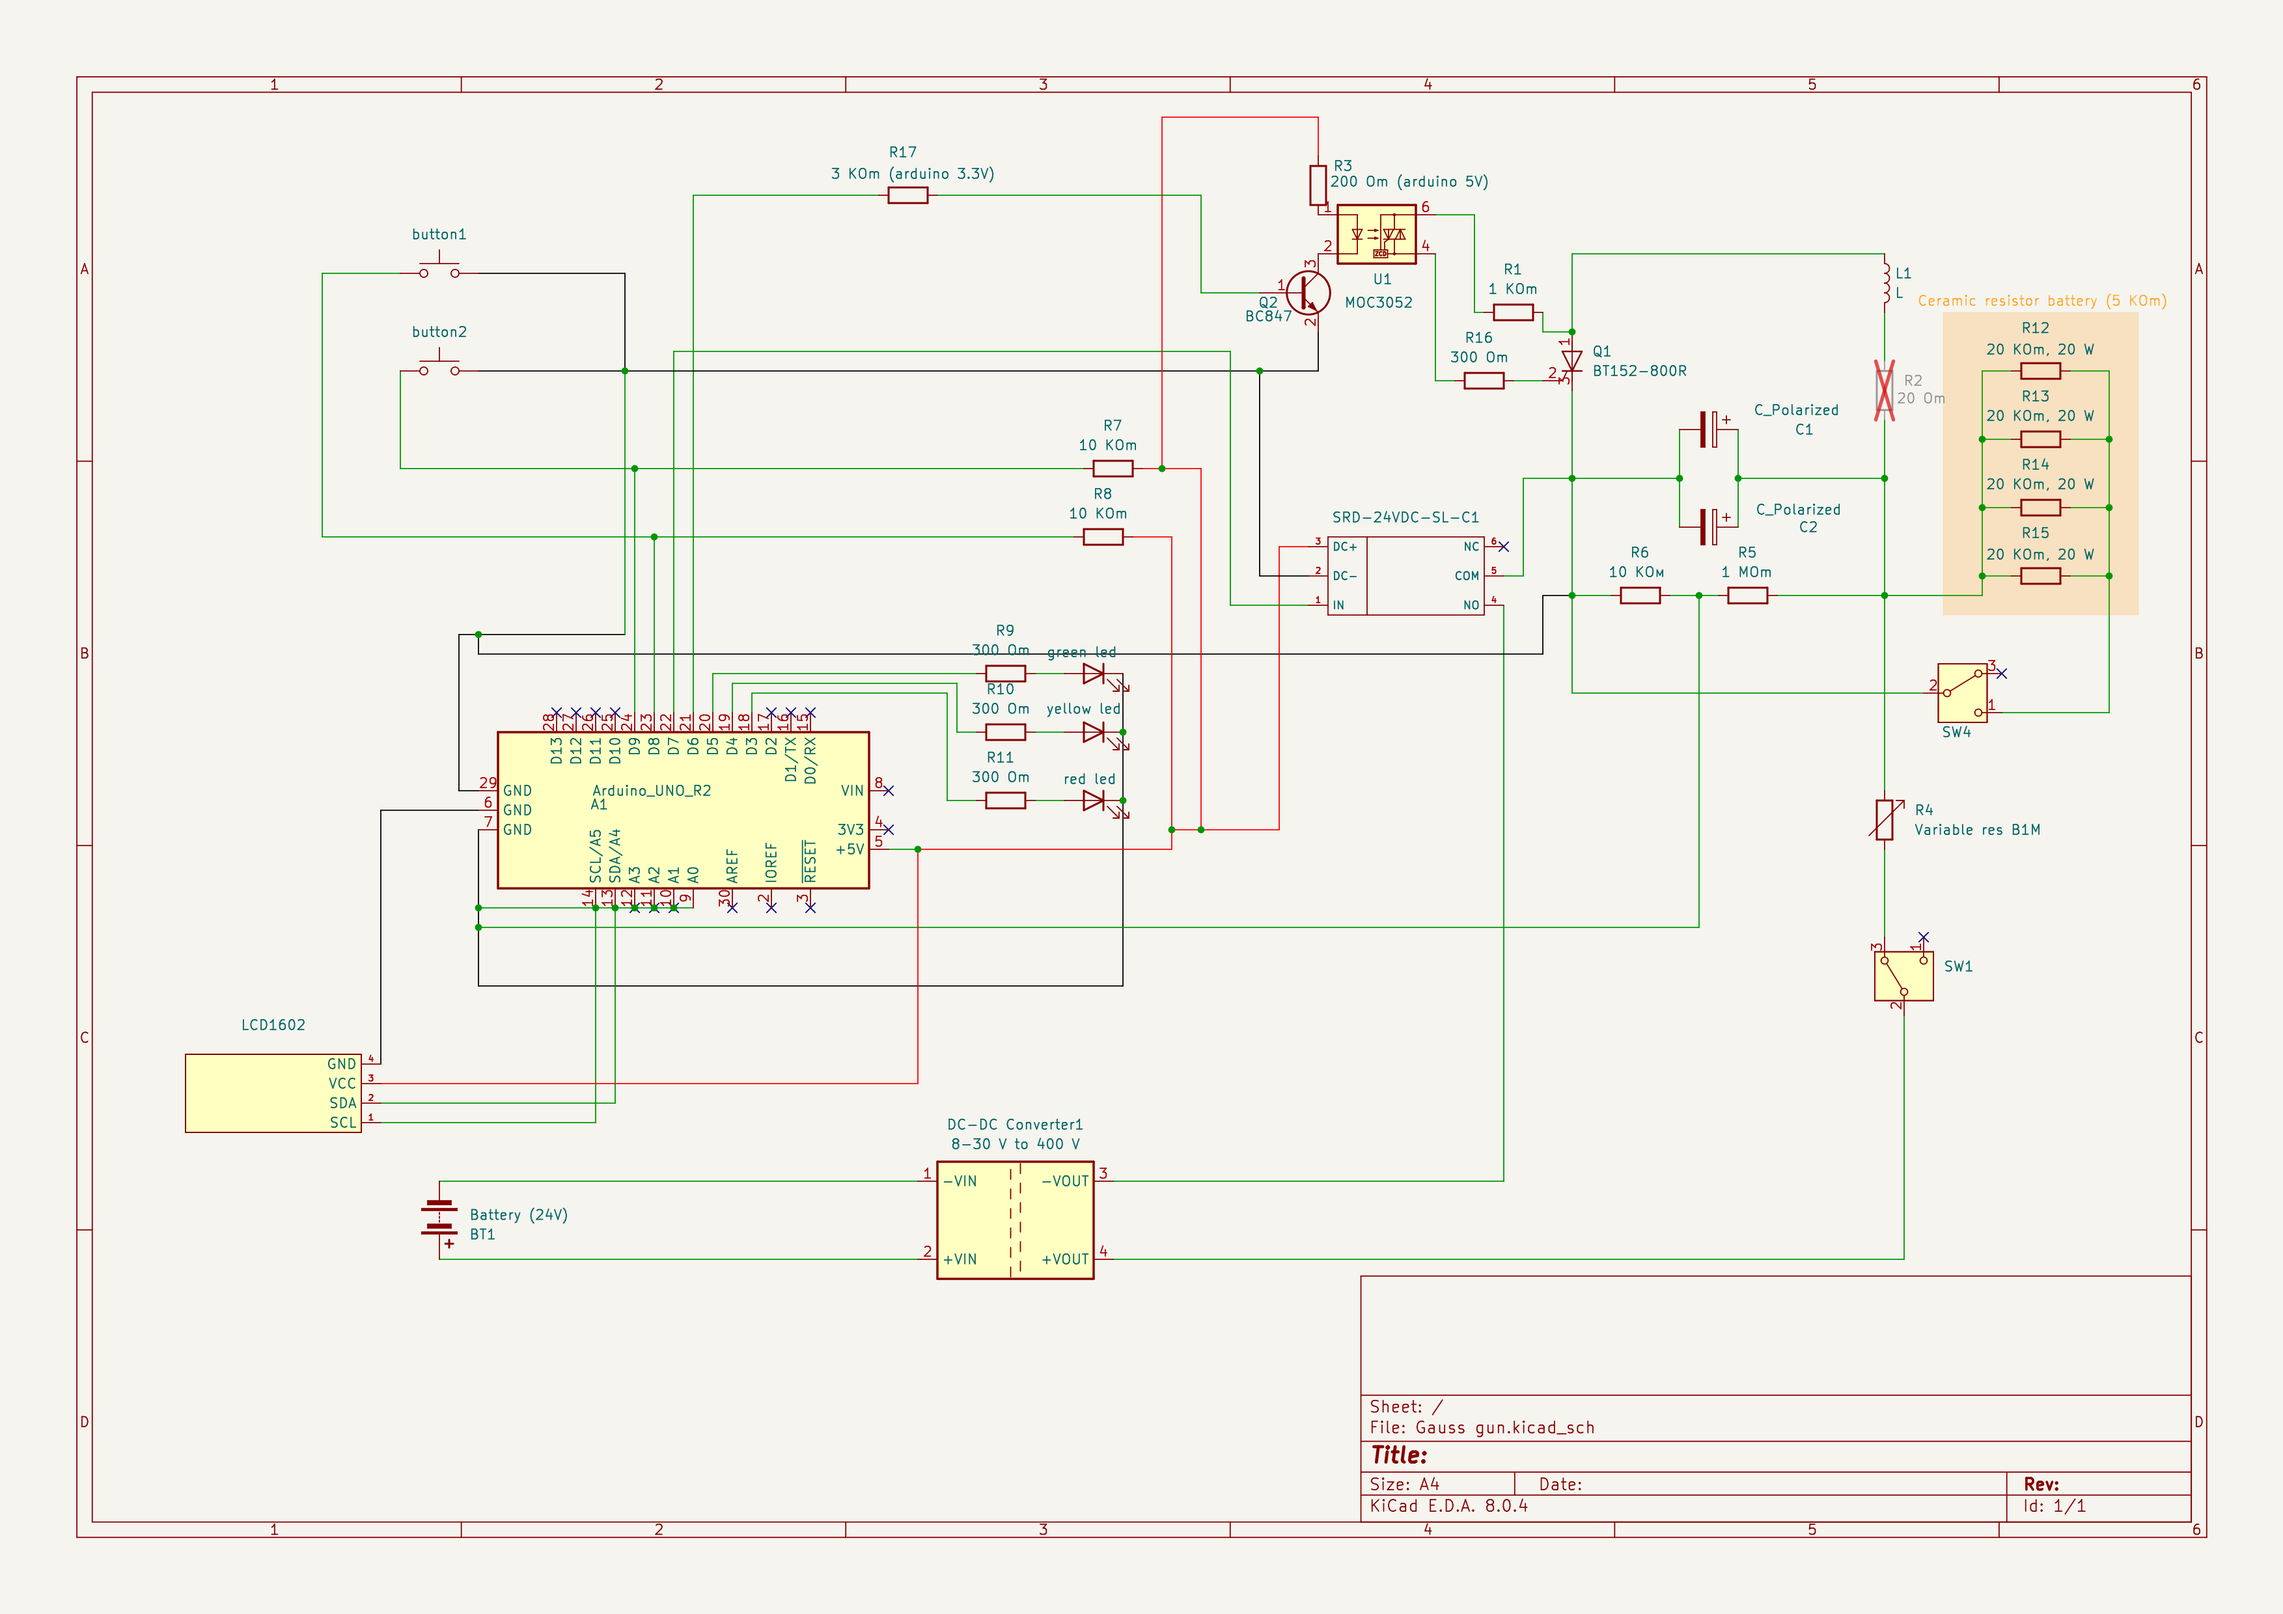
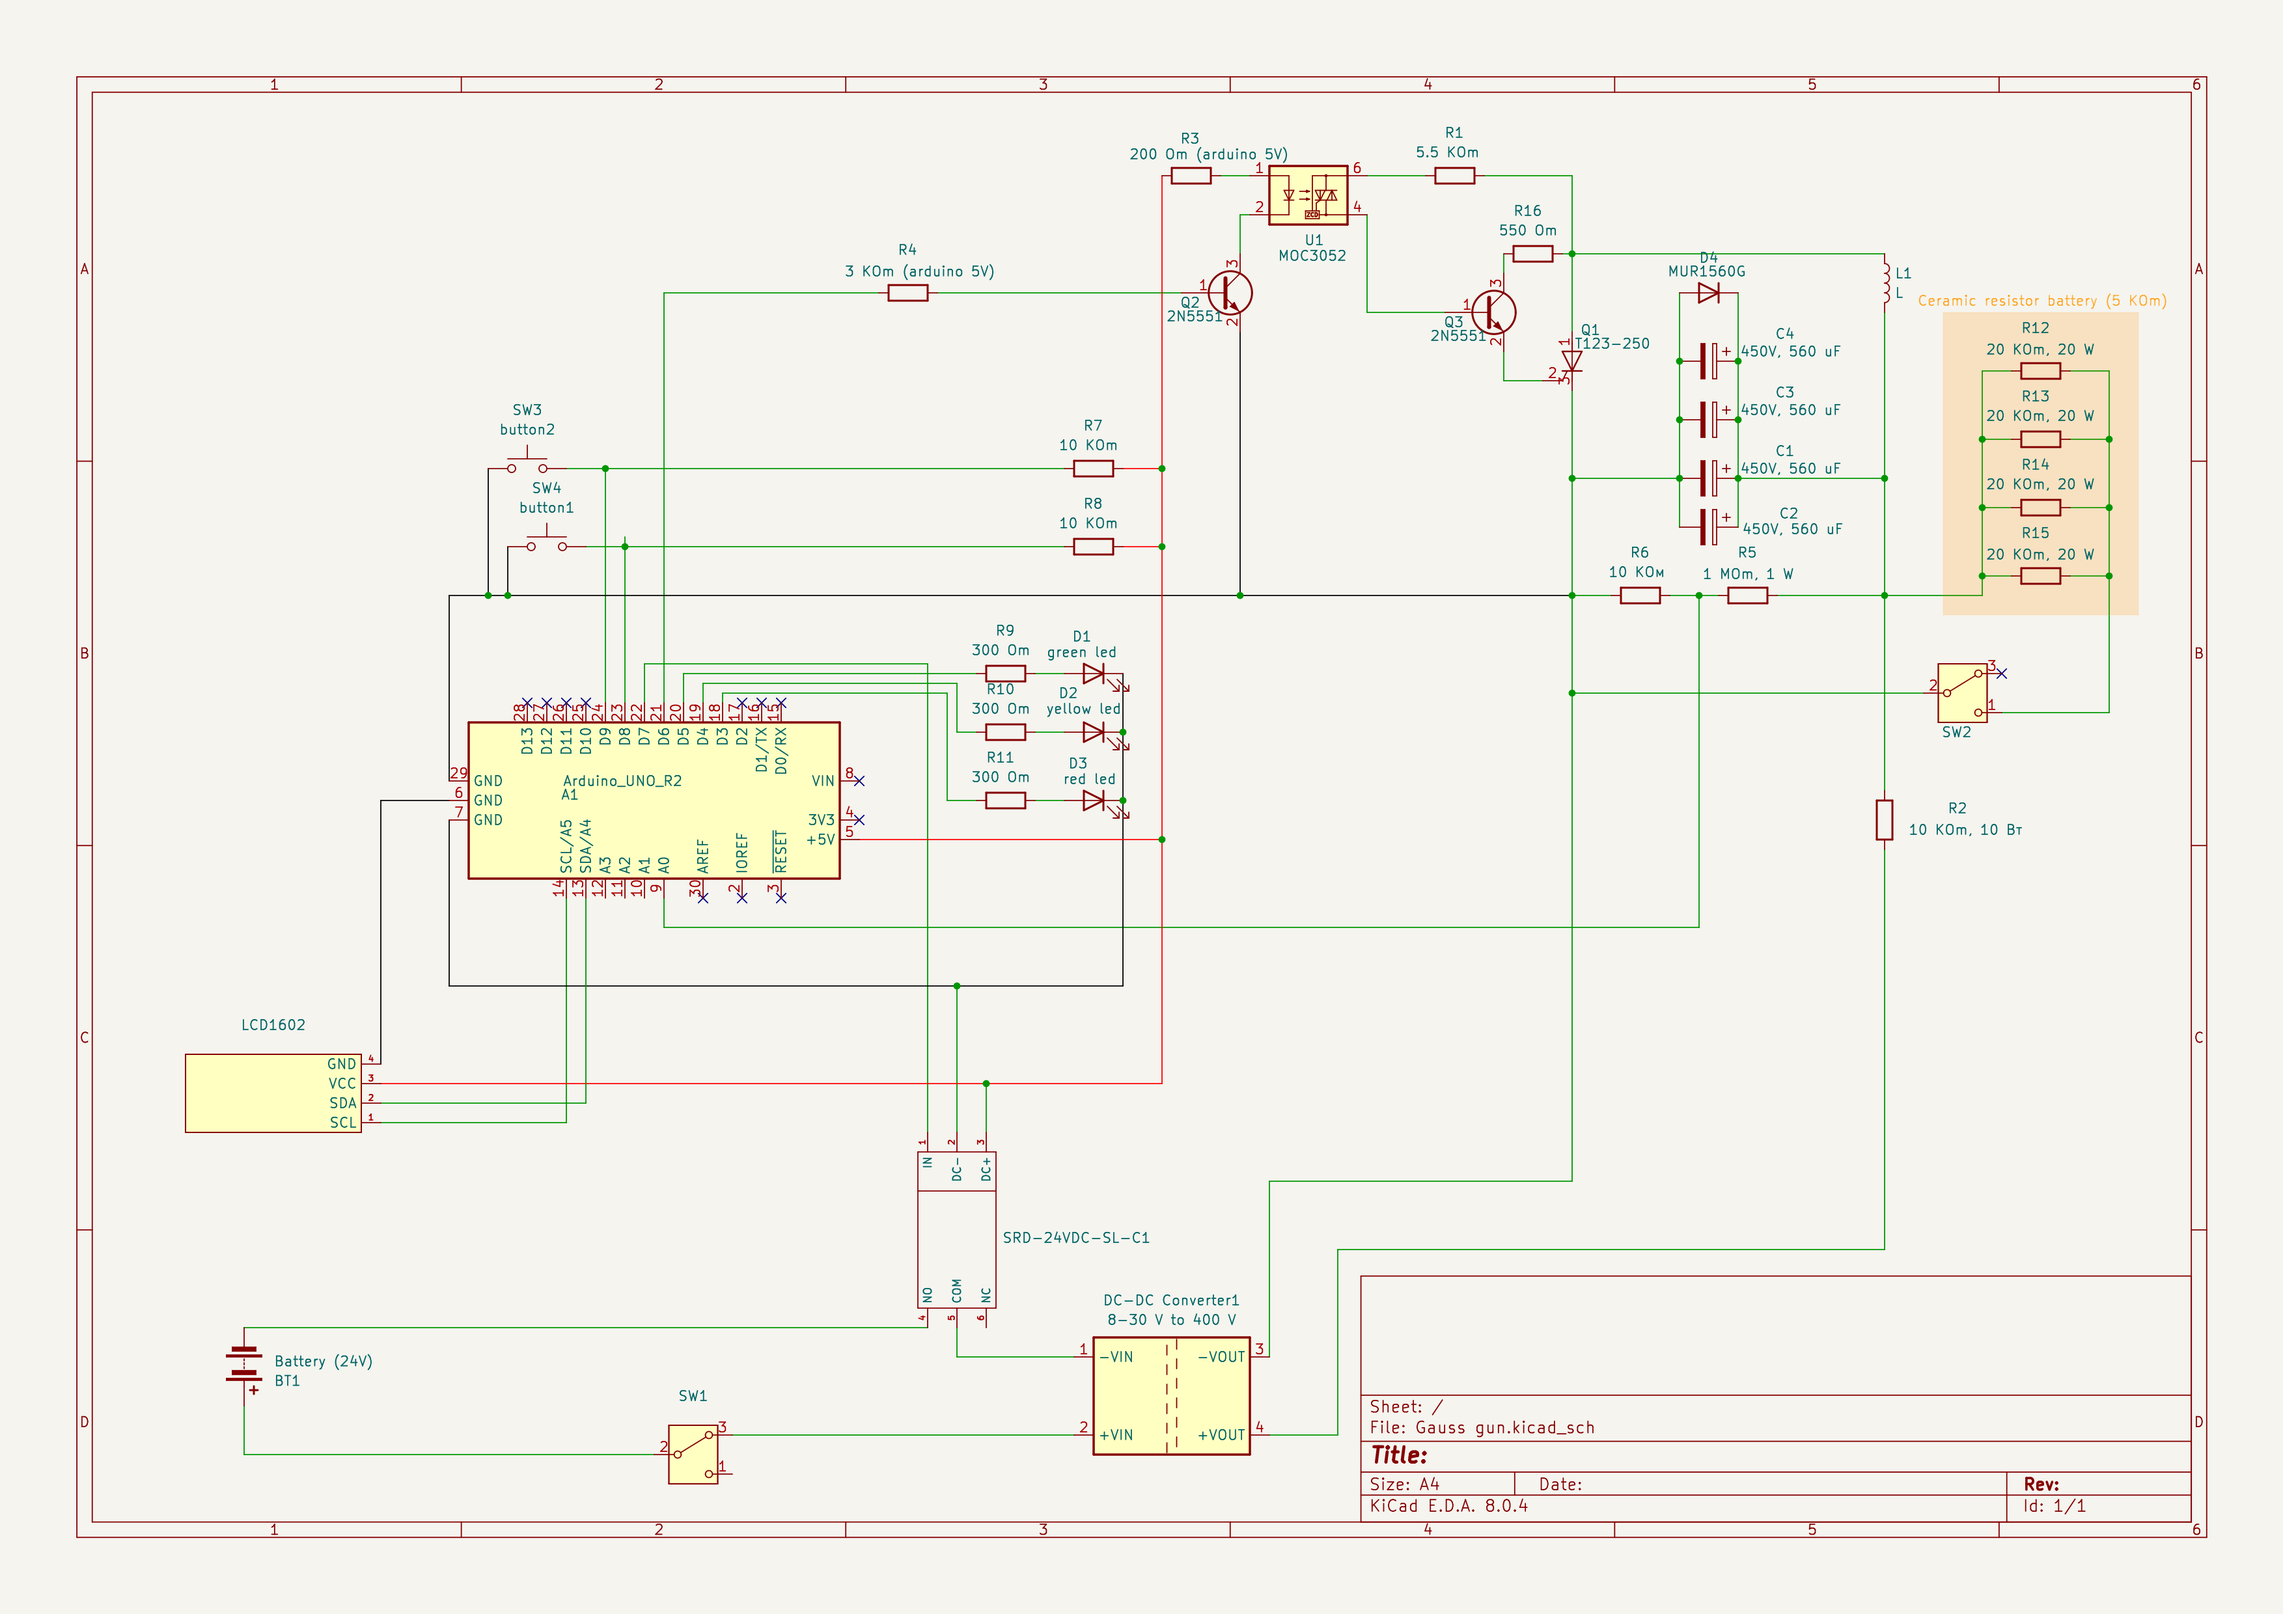
Add voltage measurement and control logic with LCD display
- Implemented voltage measurement using analog input
- Added control for relay and transistor based on button presses
- Integrated LED indicators for voltage levels
- Initialized and configured LCD display for real-time voltage output

diff --git a/README.md b/README.md
@@ -1,5 +1,9 @@
 # Гаусс пушка
 
+## Теория
+
+Вся необходимая теория [тут](GaussGun.pdf)
+
 ## Схема
 
 Схему можно посмотреть [тут](imgs/scheme.png)
@@ -8,22 +12,28 @@
 
 | Усл. обозн. | Название | Вид | Характеристики |
 |-------------|----------|----|----------------|
-| R2          | 10WB2RJ         |<img src="imgs/10WB2RJ.png" width="100">| 10 КОм, 10 Вт (керамический) |
+| R1 | обычный | - | 5.5 КОм |
+| R2          | `10WB2RJ`         |<img src="imgs/10WB2RJ.png" width="100">| 10 КОм, 10 Вт (керамический) |
 | R3          | обычный  | - | 200 Ом               |
 | R4          | обычный  | - | 3 КОм |
 | R5          | обычный  | - | 1 МОм, 1Вт |
 | R6 - R8     | обычный  | - | 10 КОм |
-| R9 - R11, R1, R16 | обычный | - | 300 Ом |
-| R12 - R15   | 20W3R9J |<img src="imgs/20W3R9J.png" width="100">| 20 КОм, 20 Вт (керамический) |
-| D2-D4 | светодиод из ардуино | <img src="imgs/leds.png" width="100">| хз, самые простые 🤷♂ |
-| D1    | MUR1560G | <img src="imgs/MUR1560G.png" width="100">| 15А, 600В |
+| R9 - R11 | обычный | - | 300 Ом |
+| R12 - R15   | `20W3R9J` |<img src="imgs/20W3R9J.png" width="100">| 20 КОм, 20 Вт (керамический) |
+| R16 | обычный | - | 550 Ом |
+| D2-D4 | светодиод из ардуино | <img src="imgs/leds.png" width="100">| самые простые 🤷♂ |
+| D1    | `MUR1560G` | <img src="imgs/MUR1560G.png" width="100">| 15А, 600В |
 | C1, C2| конденсатор | <img src="imgs/capasitor.png" width="100">| 450В, 560 мкФ |
-| Q1 | Тиристор BT152-800R | <img src="imgs/BT152-800R.png" width="100">| 20А, 800В |
-| Q2 | Транзистор BC847 | <img src="imgs/BC847.png" width="100">| 45В, 0.1А |
-| U1 | Оптопара MOC3052M | <img src="imgs/MOC3052M.png" width="100">| - |
+| Q1 | Тиристор `T123-250-16` | <img src="imgs/T123-250.png" width="100">| 250А, 800В |
+| Q2 | Транзистор `2N5551` | <img src="imgs/2N5551.png" width="100">| 160В, 0.6А |
+| U1 | Оптопара `MOC3052M` | <img src="imgs/MOC3052M.png" width="100">| - |
 | - | Реле ардуино | <img src="imgs/arduinoRelay.png" width="100">| - |
 | - | Повышающий преобразователь | <img src="imgs/converter.png" width="100">| 10-32 в 45-390В |
-| - | Arduino Uno | <img src="imgs/arduinoUno.png" width="100">| - |
-| - | LCD1602 | <img src="imgs/LCD1602.png" width="100">| - |
+| - | `Arduino Uno` | <img src="imgs/arduinoUno.png" width="100">| - |
+| - | `LCD1602` | <img src="imgs/LCD1602.png" width="100">| - |
 | SW1, SW2 | Переключатель | - | - |
-| SW3, SW4 | Кнопки | <img src="imgs/button.png" width="100">| Я взял из набора ардуино |
+| SW3, SW4 | Кнопки | <img src="imgs/button.png" width="100">| - |
+
+## Скетч
+
+Скетч можно посмотреть [тут](sketch.ino)
